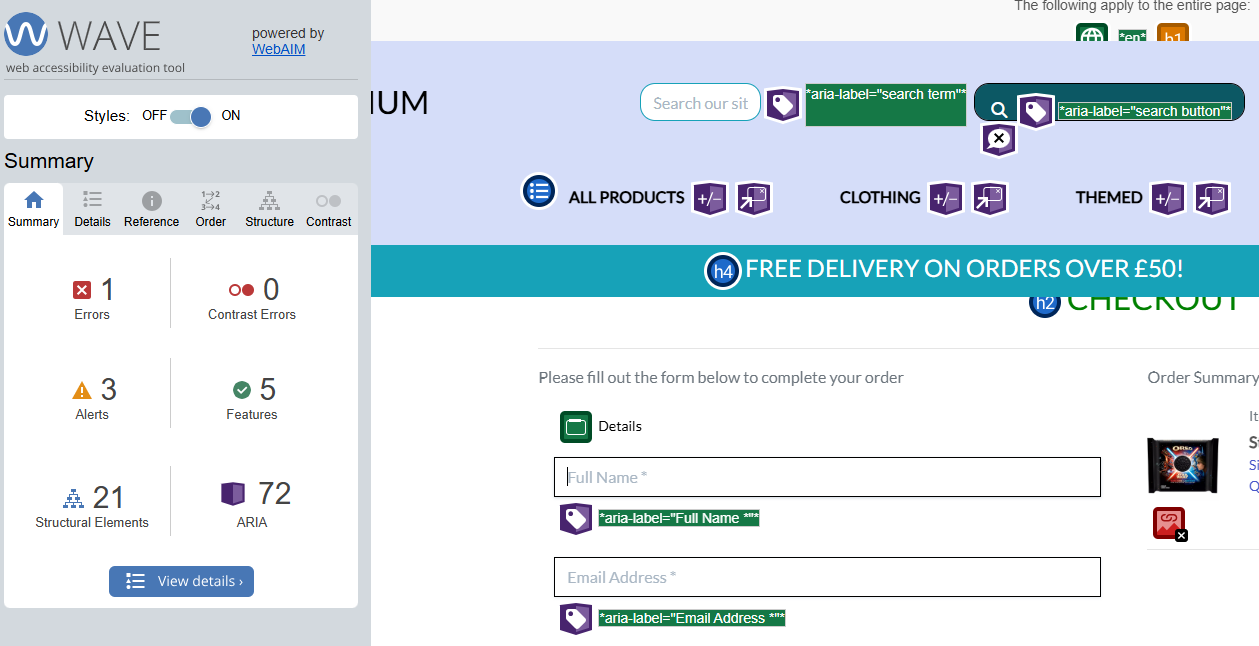
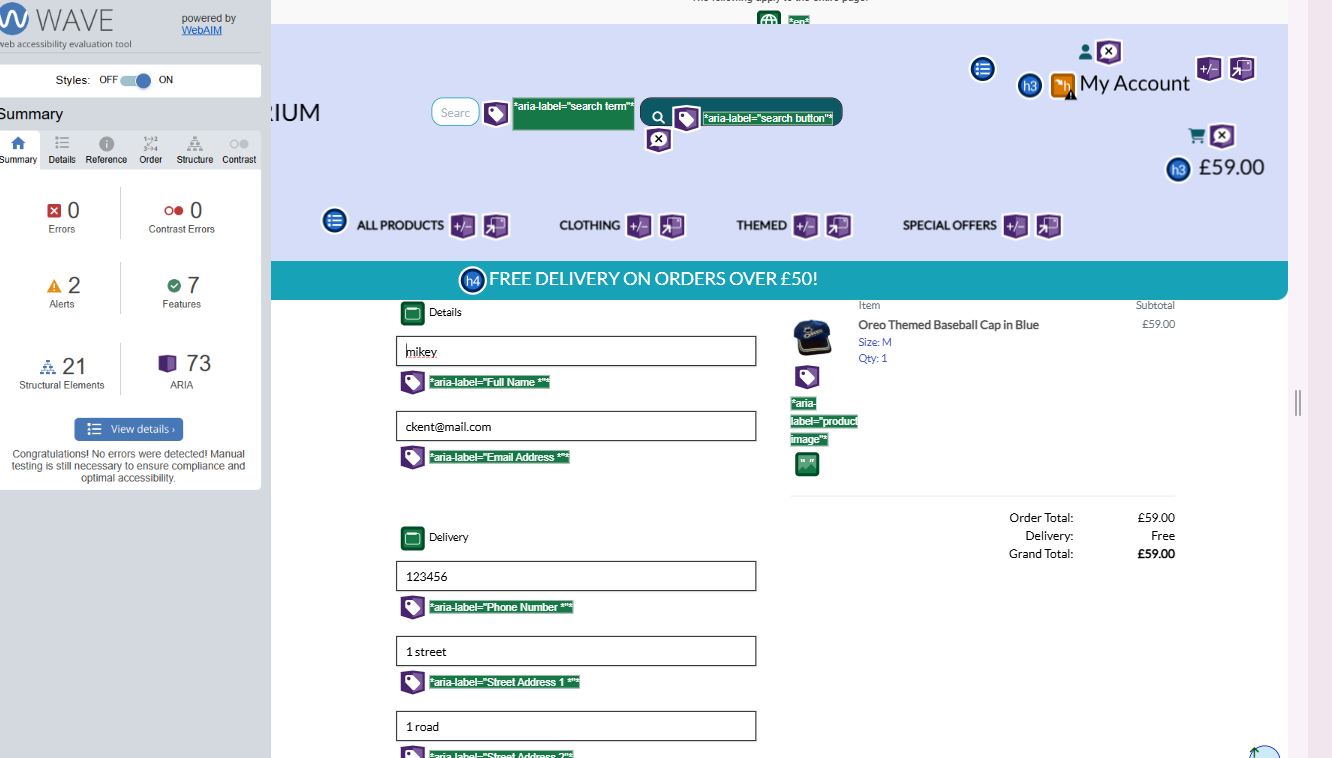
fix min/max values of reviews

diff --git a/bag/templates/bag/quantity-form.html b/bag/templates/bag/quantity-form.html
@@ -5,7 +5,8 @@
             <div class="input-group-prepend">
                 <button class="decrement-qty btn btn-sm btn-danger rounded-15 decrement-qty_{{ item.item_id }} 
                     {% if item.size %}decrement-size_{{ item.item_id }}_{{ item.size }}{% endif %}" 
-                    data-item_id="{{ item.item_id }}" data-size="{{ item.size }}">
+                    data-item_id="{{ item.item_id }}" data-size="{{ item.size }}"
+                    aria-label="Decrement Quantity Button">
                     <span>
                         <i class="fas fa-minus fa-sm"></i>
                     </span>
@@ -14,11 +15,13 @@
             <input class="form-control form-control-sm rounded-15 qty_input id_qty_{{ item.item_id }} 
                 {% if item.size %}size_{{ item.item_id }}_{{ item.size }}{% endif %}" type="number"
                 name="quantity" value="{{ item.quantity }}" min="1" max="9"
-                data-item_id="{{ item.item_id }}" data-size="{{ item.size }}">
+                data-item_id="{{ item.item_id }}" data-size="{{ item.size }}"
+                aria-label="Current Quantity Button">
             <div class="input-group-append">
                 <button class="increment-qty btn btn-sm btn-success rounded-15 increment-qty_{{ item.item_id }} 
                     {% if item.size %}increment-size_{{ item.item_id }}_{{ item.size }}{% endif %}"
-                    data-item_id="{{ item.item_id }}" data-size="{{ item.size }}">
+                    data-item_id="{{ item.item_id }}" data-size="{{ item.size }}"
+                    aria-label="Increment Quantity Button">
                     <span>
                         <i class="fas fa-plus fa-sm"></i>
                     </span>

diff --git a/checkout/templates/checkout/checkout.html b/checkout/templates/checkout/checkout.html
@@ -41,9 +41,9 @@
                         <div class="col-2 mb-1">
                             <a href="{% url 'product_detail' item.product.id %}">
                                 {% if item.product.image %}
-                                    <img class="w-100" src="{{ item.product.image.url }}" alt="{{ product.name }}">
+                                    <img class="w-100" src="{{ item.product.image.url }}" alt="{{ product.name }}" aria-label="product image">
                                 {% else %}
-                                    <img class="w-100" src="{{ MEDIA_URL }}noimage.png" alt="{{ product.name }}">
+                                    <img class="w-100" src="{{ MEDIA_URL }}noimage.png" alt="{{ product.name }}" aria-label="no product image">
                                 {% endif %}
                             </a>
                         </div>

diff --git a/bag/templates/bag/product-image.html b/bag/templates/bag/product-image.html
@@ -1,9 +1,9 @@
 {% if item.product.image %}
 <a href="{% url 'product_detail' item.product.id %}">
-<img class="img-fluid rounded" src="{{ item.product.image.url }}" alt="{{ product.name }}">
+<img class="img-fluid rounded" src="{{ item.product.image.url }}" alt="{{ product.name }}" aria-label="product image">
 </a>
 {% else %}
 <a href="{% url 'product_detail' item.product.id %}">
-<img class="img-fluid rounded" src="{{ MEDIA_URL }}noimage.png" alt="{{ product.name }}">
+<img class="img-fluid rounded" src="{{ MEDIA_URL }}noimage.png" alt="{{ product.name }}" aria-label="blank product image">
 </a>
 {% endif %}

diff --git a/bag/templates/bag/bag.html b/bag/templates/bag/bag.html
@@ -59,7 +59,7 @@
                         <table class="table table-sm table-borderless">
                             <thead class="text-black">
                                 <tr>
-                                    <th></th>
+                                    <th class="text-center">Product Image</th>
                                     <th scope="col">Product Info</th>
                                     <th scope="col">Price</th>
                                     <th class="text-center" scope="col">Qty</th>

diff --git a/reviews/templates/reviews/display_rating.html b/reviews/templates/reviews/display_rating.html
@@ -75,8 +75,8 @@
         {% endif %}
     </div>
     
-    {% if review.rating <= 1 %}
+    {% if review.rating|floatformat:1 <= 1 %}
         <small>{{ review.rating }} Golden Cookie</small>
     {% else %}
-        <small>{{ review.rating }} Golden Cookies</small>
+        <small>{{ review.rating|floatformat:1 }} Golden Cookies</small>
     {% endif %}

diff --git a/reviews/models.py b/reviews/models.py
@@ -1,6 +1,6 @@
 from django.db import models
 from django.core.validators import (
-    MaxValueValidator, MinValueValidator
+    MaxValueValidator, MinValueValidator, StepValueValidator
 )
 from django.contrib.auth.models import User
 from products.models import Product
@@ -36,12 +36,14 @@ class Review(models.Model):
         max_length=500
     )
     rating = models.DecimalField(
-        max_digits=3, decimal_places=2, null=False,
+        max_digits=2, decimal_places=1, null=False,
         validators=[
             MaxValueValidator
             (5, message="Glad you're so pleased but Maximum score is 5!"),
             MinValueValidator
-            (1, message="Score must be 1 or more - Be Generous!")
+            (1, message="Score must be 1 or more - Be Generous!"),
+            StepValueValidator
+            (0.1, message="Scores are in one decimal point only")
         ],
         blank=False, default=0)
 

diff --git a/reviews/migrations/0003_alter_review_rating.py b/reviews/migrations/0003_alter_review_rating.py
@@ -1,0 +1,19 @@
+# Generated by Django 4.2.16 on 2025-03-06 13:52
+
+import django.core.validators
+from django.db import migrations, models
+
+
+class Migration(migrations.Migration):
+
+    dependencies = [
+        ('reviews', '0002_alter_review_is_approved_alter_review_rating'),
+    ]
+
+    operations = [
+        migrations.AlterField(
+            model_name='review',
+            name='rating',
+            field=models.DecimalField(decimal_places=1, default=0, max_digits=2, validators=[django.core.validators.MaxValueValidator(5, message="Glad you're so pleased but Maximum score is 5!"), django.core.validators.MinValueValidator(1, message='Score must be 1 or more - Be Generous!'), django.core.validators.StepValueValidator(0.1, message='Scores are in one decimal point only')]),
+        ),
+    ]

diff --git a/products/models.py b/products/models.py
@@ -25,7 +25,7 @@ class Product(models.Model):
     description = models.TextField()
     has_sizes = models.BooleanField(default=False, null=True, blank=True)
     price = models.DecimalField(max_digits=6, decimal_places=2)
-    rating = models.DecimalField(max_digits=3, decimal_places=2, null=True,
+    rating = models.DecimalField(max_digits=2, decimal_places=1, null=True,
                                  validators=[MaxValueValidator(5.0)],
                                  blank=True)
     image_url = models.URLField(max_length=1024, null=True, blank=True)

diff --git a/reviews/forms.py b/reviews/forms.py
@@ -13,6 +13,9 @@ class ReviewForm(forms.ModelForm):
 
     def __init__(self, *args, **kwargs):
         super().__init__(*args, **kwargs)
+        self.fields["rating"].widget.attrs['min'] = 1
+        self.fields["rating"].widget.attrs['max'] = 5
+        self.fields["rating"].widget.attrs['step'] = .1
 
         # Sets placeholder values
         placeholders = {

diff --git a/products/forms.py b/products/forms.py
@@ -20,3 +20,4 @@ class ProductForm(forms.ModelForm):
         self.fields['category'].choices = friendly_names
         for field_name, field in self.fields.items():
             field.widget.attrs['class'] = 'border-black rounded-15'
+            field.widget.attrs['aria-label'] = field_name

diff --git a/README.md b/README.md
@@ -458,6 +458,7 @@ There is an admin page to review messages and reviews and toggle their status. F
     </details>
     <br>
 
+    -   Images appear with a white background on a pink page. However, this is an admin area only so this is acceptable. If this were a customer facing page, i would have duplicate images with a matching background.
     <details><summary>Management</summary>
     <img src="leos_oreos\docs\images\screens\ss-management.png">
     </details>
@@ -847,6 +848,9 @@ Testing was focused to ensure the following criteria were met:
 Results:
 
 The use of Crispy Forms in the Authorisations app (django allauth) throws up missing aria-label errors. It's possible to either remove crispy forms or add additional forms.py defs but this unnecessarilly complicates the code to 'fix' a problem that doesn't really exist as placeholders are clear and the screen reader software detects the placeholder as a field label.
+
+Some pages report heading levels skipped but I have chosen a specific design and layout and don't wish to use all heading levsl on each page or start a page with a h1. This doesn't affect site comprehension when navigated with a screen reader.
+
 -   WCAG results:
 
     <details><summary>Home Page</summary>
@@ -879,8 +883,6 @@ The use of Crispy Forms in the Authorisations app (django allauth) throws up mis
     </details>
     <br>
 
-     -  WCAG reports an error with a missing alt-text on products in the shopping bag. However this is audible in the screen reader test and is accurately named to the product_name so its a spurious error.
-     Aria-labels were added to form fields with a single line of code 
     <details><summary>Checkout Page</summary>
     <img src="leos_oreos\docs\images\testing\wcag-checkout.png">
     </details>
@@ -948,7 +950,10 @@ Manual tests were also performed to ensure the website was as accessible as poss
 
 ### Screen Reader
 
-Screen reader testing was performed using [Screen Reader Chrome plugin](https://chromewebstore.google.com/detail/screen-reader/kgejglhpjiefppelpmljglcjbhoiplfn).
+Screen reader testing was performed using [Screen Reader Chrome plugin](https://chromewebstore.google.com/detail/screen-reader/kgejglhpjiefppelpmljglcjbhoiplfn). This has since been depecrated by Google.
+
+So, [https://www.nvaccess.org/](NV Access) was also used.
+
 This confirmed that:
 
 -   All text is readable.
@@ -1097,10 +1102,7 @@ This confirmed that:
     Significant manual testing was carried out together with 92 automated tests via .py test scripts across all apps to test code coverage.
 
 -   ##### Admin Test Account
-    -   For test purposes there is an admin account. However, be aware that this has full access to all functionality. It's essential to document it here so that full functionality can be tested:
-
-        -   Username: clarkkent
-        -   Password: CodeIns7057@
+    -   For test purposes there is an admin account but details are restricted and available on valid request. Test user accounts are below:
 
 -   ##### User Test Accounts
     -   For adding reviews and checking logged in user functions.
